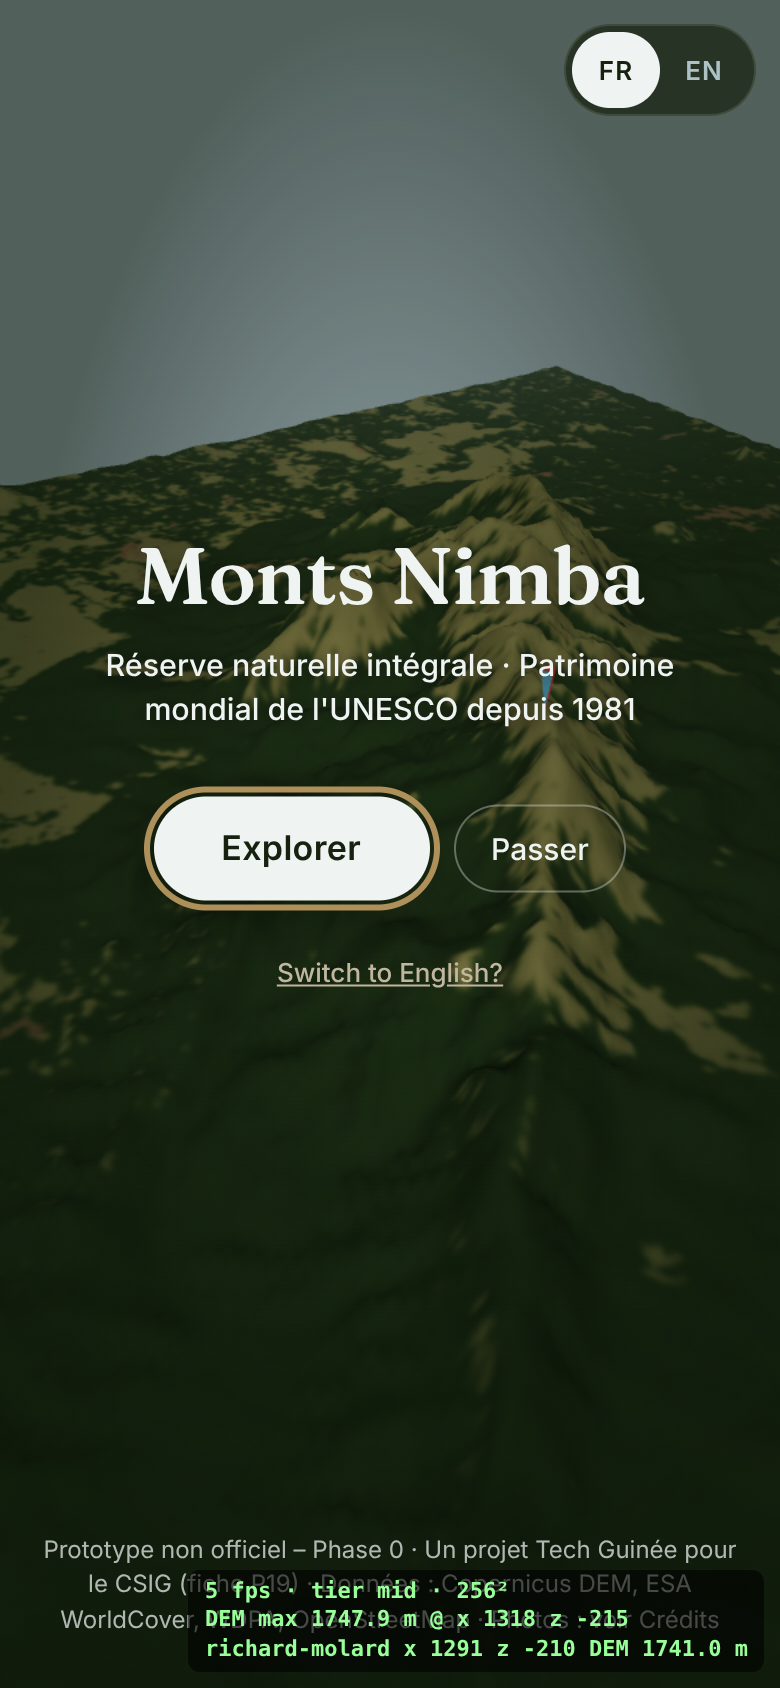
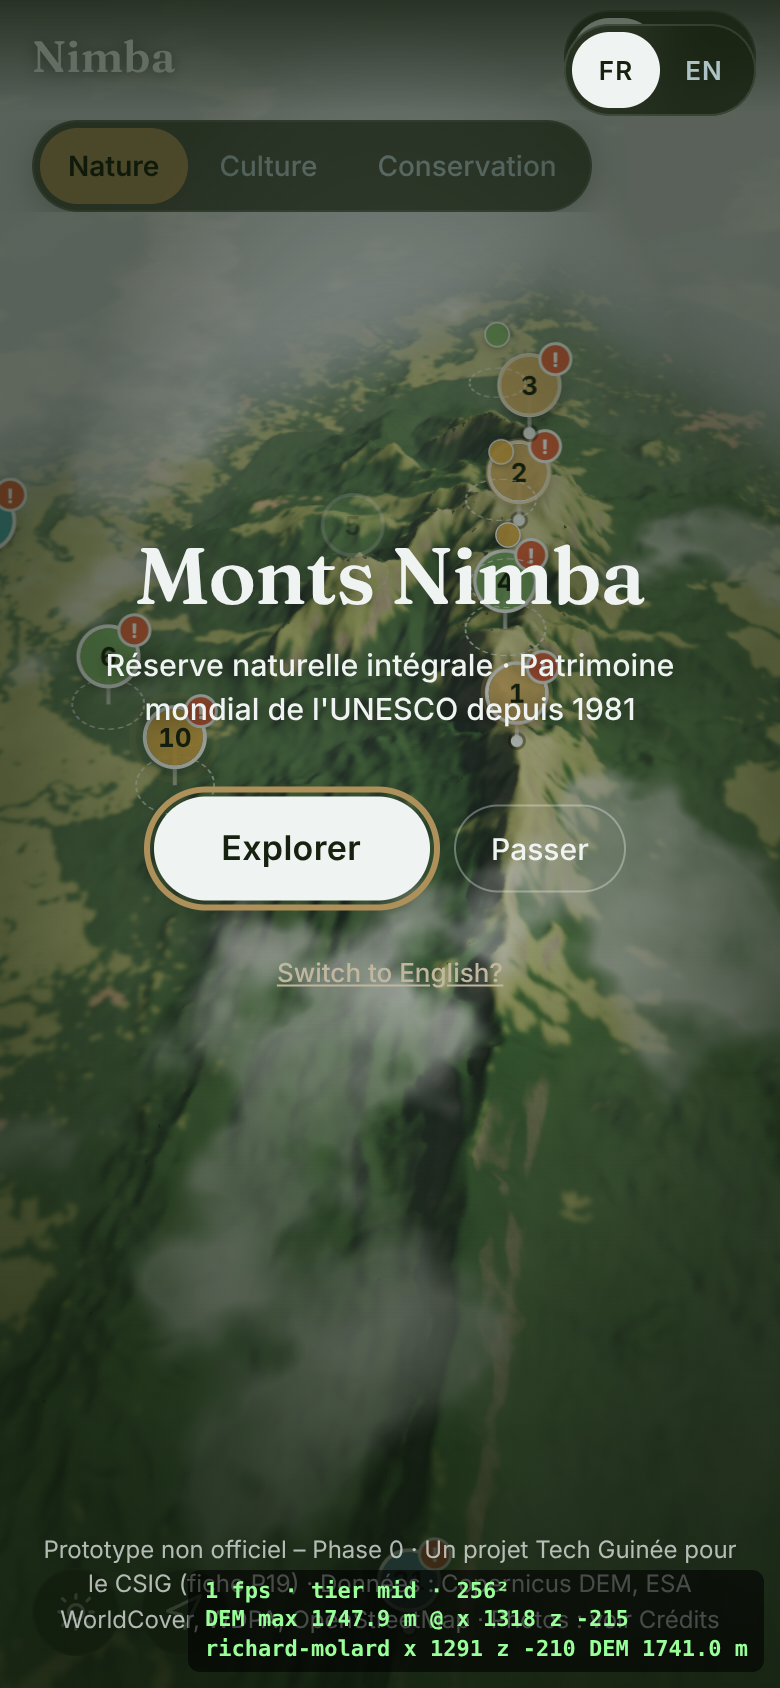
M3: hotspot pins, occlusion, declutter, mode filter and deep links
23 accessible DOM pins projected each rendered frame, faded when a ridge
hides them (heightfield segment march), decluttered by priority, number
badges on phones, dashed halos for generalised locations, Nature/Culture/
Conservation filter in ?mode=, #/h/<id> deep links with camera glide, and
a one-time 'tap a pin' hint.

Claude-Session: https://claude.ai/code/session_01JpNJH8Bnnhs2dX6KzHn537

diff --git a/src/main.ts b/src/main.ts
@@ -2,25 +2,26 @@ import '@fontsource-variable/fraunces';
 import '@fontsource-variable/inter';
 import './styles.css';
 import * as THREE from 'three';
-import { applyStatic } from './i18n';
+import { applyStatic, getLang, onLang } from './i18n';
 import { hideLoading, Progress, setLoadingText, showFatal } from './ui/loading';
 import { showTitleCard } from './ui/titlecard';
 import { BASE, flags, reducedMotion } from './flags';
 import { t } from './i18n';
 import { checkMeta, lonLatToXZ, type TerrainMeta } from './data/geo';
-import { loadContent } from './data/content';
+import { loadContent, loc, type Hotspot, type Mode } from './data/content';
 import { decodePixels, fetchBlob } from './data/loader';
 import { Heightfield } from './scene/heightfield';
 import { Landcover } from './scene/landcover';
 import { buildTerrainGeometry } from './scene/terrain';
 import { Stage } from './scene/stage';
 import { detectTier } from './scene/tier';
-import { DEFAULT_EXAG, HOME_VIEW } from './scene/config';
+import { DEFAULT_EXAG, HOME_VIEW, ORBIT } from './scene/config';
 import { clampCamera, currentPose, poseToPosition, tweenPose, type OrbitPose } from './scene/camera';
 import { ATMO_ORDER, Atmosphere, nextAtmo, type AtmoName } from './scene/atmosphere';
 import { createTerrainMaterial } from './scene/terrainMaterial';
 import { Clouds, createSky } from './scene/sky';
 import { announce, Chrome } from './ui/chrome';
+import { Pins } from './ui/pins';
 
 setLoadingText();
 applyStatic();
@@ -82,7 +83,7 @@ async function boot() {
     return {
       target: new THREE.Vector3(tx, HOME_VIEW.target.h * exag, tz),
       azimuthDeg: HOME_VIEW.azimuthDeg,
-      elevationDeg: portrait ? HOME_VIEW.elevationDeg + 8 : HOME_VIEW.elevationDeg,
+      elevationDeg: portrait ? HOME_VIEW.elevationDeg + 14 : HOME_VIEW.elevationDeg,
       distance: portrait ? HOME_VIEW.distance * 1.25 : HOME_VIEW.distance,
     };
   };
@@ -101,6 +102,50 @@ async function boot() {
     stage.addAnimator(tweenPose(currentPose(camera, controls.target), to, ms, applyPose, () => { controls.enabled = true; }));
   };
 
+  // ---- Pins, modes, selection, deep links ----
+  const modes: Mode[] = ['nature', 'culture', 'conservation'];
+  let mode: Mode = modes.includes(flags.mode as Mode) ? (flags.mode as Mode) : 'nature';
+  let selected: string | null = null;
+  const pins = new Pins(content, hf, exag, (id) => selectHotspot(id, true), { debug: flags.debug, pulse: !reducedMotion && tier.tier !== 'low' });
+  stage.onAfterRender(() => pins.update(camera, canvas.clientWidth, canvas.clientHeight, camera.position.distanceTo(controls.target)));
+  onLang(() => { pins.relabel(); stage.invalidate(); });
+
+  const hotspotPose = (h: Hotspot): OrbitPose => ({
+    target: pins.worldOf(h.id)!,
+    azimuthDeg: h.camera.azimuth_deg,
+    elevationDeg: THREE.MathUtils.clamp(h.camera.elevation_deg, 15, 80),
+    distance: Math.max(h.camera.distance_m, ORBIT.minDistance),
+  });
+
+  function selectHotspot(id: string | null, fromUser: boolean) {
+    const h = id ? content.hotspots.find((x) => x.id === id) : undefined;
+    selected = h ? h.id : null;
+    pins.select(selected);
+    const hash = selected ? `#/h/${selected}` : '';
+    if (location.hash !== hash) history.replaceState(null, '', `${location.pathname}${location.search}${hash}`);
+    if (h) {
+      if (!h.modes.includes(mode)) setMode(h.modes[0], false);
+      flyTo(hotspotPose(h), fromUser ? 1200 : 0);
+      announce(t('status.opened', { title: loc(h, 'title', getLang()) }));
+      dismissHint();
+    }
+    stage.invalidate();
+  }
+
+  function setMode(m: Mode, fromUser = true) {
+    mode = m;
+    chrome.setMode(m);
+    pins.setMode(m);
+    const q = new URLSearchParams(location.search);
+    if (m === 'nature') q.delete('mode'); else q.set('mode', m);
+    const qs = q.toString();
+    history.replaceState(null, '', `${location.pathname}${qs ? `?${qs}` : ''}${location.hash}`);
+    // Keep the selection only if its hotspot belongs to the new mode.
+    if (fromUser && selected && !pins.isInMode(selected)) selectHotspot(null, true);
+    if (fromUser) announce(t('status.mode', { mode: t(`mode.${m}`) }));
+    stage.invalidate();
+  }
+
   const chrome = new Chrome({
     onAtmo: () => {
       const next = nextAtmo(atmo.name);
@@ -109,25 +154,45 @@ async function boot() {
       chrome.setAtmo(next);
       announce(t('status.atmo', { atmo: t(`atmo.${next}`) }));
     },
-    onReset: () => flyTo(homePose()),
-    onMode: (m) => chrome.setMode(m),
+    onReset: () => { selectHotspot(null, true); flyTo(homePose()); },
+    onMode: (m) => setMode(m),
   });
   chrome.setAtmo(initialAtmo);
-  chrome.setMode('nature');
+  setMode(mode, false);
+
+  const routeFromHash = () => {
+    const m = /^#\/h\/([a-z0-9-]+)$/.exec(location.hash);
+    if (m) selectHotspot(m[1], true);
+  };
+  window.addEventListener('hashchange', routeFromHash);
+  window.addEventListener('keydown', (e) => {
+    if (e.key === 'Escape' && selected && !document.querySelector('.title-card')) selectHotspot(null, true);
+  });
+
+  // One-time "Tap a pin" hint (DESIGN.md §5).
+  let hintEl: HTMLDivElement | null = null;
+  function dismissHint() {
+    if (!hintEl) return;
+    const el = hintEl;
+    hintEl = null;
+    el.classList.add('gone');
+    setTimeout(() => el.remove(), 500);
+    try { localStorage.setItem('nimba.hint', '1'); } catch { /* ignore */ }
+  }
+  function showHint() {
+    try { if (localStorage.getItem('nimba.hint')) return; } catch { /* ignore */ }
+    hintEl = document.createElement('div');
+    hintEl.className = 'hint';
+    hintEl.textContent = t('pins.hint');
+    document.body.append(hintEl);
+    setTimeout(dismissHint, 6000);
+  }
 
   if (flags.debug) {
-    // M1 acceptance: a marker at richard-molard must sit on the highest DEM sample of the tile.
+    // M1 acceptance readout: richard-molard must sit on the highest DEM sample of the tile.
     const rm = content.hotspots.find((h) => h.id === 'richard-molard');
     const maxRow = Math.floor(hf.maxIndex / hf.size), maxCol = hf.maxIndex % hf.size;
     const [mx, mz] = hf.samplePos(maxCol, maxRow);
-    const mark = (x: number, z: number, color: string) => {
-      const m = new THREE.Mesh(new THREE.ConeGeometry(70, 500, 12), new THREE.MeshBasicMaterial({ color, fog: false }));
-      m.rotation.x = Math.PI;
-      m.position.set(x, hf.heightAt(x, z) * exag + 250, z);
-      scene.add(m);
-    };
-    mark(mx, mz, '#ff2a2a');
-    if (rm) { const [x, z] = lonLatToXZ(rm.lon, rm.lat); mark(x, z, '#2aa8ff'); }
     const fpsEl = document.createElement('div');
     fpsEl.className = 'fps';
     document.body.append(fpsEl);
@@ -145,11 +210,12 @@ async function boot() {
   hideLoading();
   document.body.dataset.ready = '1';
 
+  if (location.hash) routeFromHash();
   if (!flags.skipIntro) {
     controls.autoRotate = true;
     controls.autoRotateSpeed = 0.35;
-    const stopSpin = () => { controls.autoRotate = false; };
-    showTitleCard({ onExplore: stopSpin, onSkip: stopSpin });
+    const done = () => { controls.autoRotate = false; showHint(); };
+    showTitleCard({ onExplore: done, onSkip: done });
   }
 }
 

diff --git a/src/ui/pins.ts b/src/ui/pins.ts
@@ -1,0 +1,163 @@
+// Hotspot pins as real DOM buttons positioned from project() each rendered frame (CLAUDE.md §6.6, DESIGN.md §6).
+// Crisp text, keyboard/screen-reader accessible, no sprites. Pins behind a ridge fade and stop taking clicks.
+import * as THREE from 'three';
+import { lonLatToXZ } from '../data/geo';
+import { loc, type Content, type Hotspot, type Mode } from '../data/content';
+import { getLang, t } from '../i18n';
+import { categoryColor, glyphs } from './icons';
+import type { Heightfield } from '../scene/heightfield';
+
+interface PinEl {
+  h: Hotspot;
+  root: HTMLDivElement;
+  btn: HTMLButtonElement;
+  label: HTMLSpanElement;
+  halo: HTMLDivElement | null;
+  world: THREE.Vector3;
+  visible: boolean; // passes the mode filter
+}
+
+const HALO_RADIUS_M = 600; // generalised / area hotspots (DESIGN.md §6)
+
+export class Pins {
+  private pins: PinEl[] = [];
+  private container = document.getElementById('pins')!;
+  private selected: string | null = null;
+  private v = new THREE.Vector3();
+  private right = new THREE.Vector3();
+  private mode: Mode = 'nature';
+
+  constructor(
+    content: Content,
+    private hf: Heightfield,
+    private exag: number,
+    private onSelect: (id: string) => void,
+    opts: { debug: boolean; pulse: boolean },
+  ) {
+    if (!opts.pulse) this.container.classList.add('no-pulse');
+    for (const h of content.hotspots) {
+      const [x, z] = lonLatToXZ(h.lon, h.lat);
+      // Anchor on the rendered surface (DEM), not on the published elevation, so pins sit on the ground.
+      const world = new THREE.Vector3(x, hf.heightAt(x, z) * exag, z);
+      const root = document.createElement('div');
+      root.className = 'pin';
+      root.dataset.id = h.id;
+      root.style.setProperty('--cat', categoryColor[h.category]);
+      root.style.setProperty('--delay', `${(h.order * 0.17) % 2.4}s`);
+      const generalised = h.location_precision === 'area' || h.location_precision === 'symbolic';
+      let halo: HTMLDivElement | null = null;
+      if (generalised) {
+        halo = document.createElement('div');
+        halo.className = 'halo';
+        root.append(halo);
+      } else {
+        const ground = document.createElement('span');
+        ground.className = 'ground';
+        root.append(ground);
+      }
+      const stem = document.createElement('span');
+      stem.className = 'stem';
+      const btn = document.createElement('button');
+      btn.type = 'button';
+      btn.innerHTML = `<span class="head">${opts.pulse ? '<span class="pulse"></span>' : ''}${glyphs[h.category]}<span class="num">${h.order}</span></span>`;
+      const label = document.createElement('span');
+      label.className = 'label';
+      label.setAttribute('aria-hidden', 'true');
+      btn.append(label);
+      if (opts.debug && h.uncertain.length) {
+        const vb = document.createElement('span');
+        vb.className = 'verify-badge';
+        vb.textContent = '!';
+        vb.setAttribute('aria-hidden', 'true');
+        btn.title = `${t('debug.verify')} :\n${h.uncertain.join('\n')}`;
+        btn.append(vb);
+      }
+      btn.addEventListener('click', () => {
+        if ('vibrate' in navigator && matchMedia('(pointer: coarse)').matches) navigator.vibrate?.(8);
+        this.onSelect(h.id);
+      });
+      root.append(stem, btn);
+      this.container.append(root);
+      this.pins.push({ h, root, btn, label, halo, world, visible: true });
+    }
+    this.relabel();
+  }
+
+  /** Update texts after a language switch. */
+  relabel() {
+    const lang = getLang();
+    for (const p of this.pins) {
+      const title = loc(p.h, 'title', lang);
+      p.label.textContent = title;
+      const precision = p.h.location_precision === 'exact' ? '' : ` – ${t(`precision.${p.h.location_precision}`)}`;
+      p.btn.setAttribute('aria-label', `${p.h.order}. ${t('pins.open', { title })}${precision}`);
+    }
+  }
+
+  setMode(m: Mode) {
+    this.mode = m;
+    for (const p of this.pins) {
+      p.visible = p.h.modes.includes(m) || p.h.id === this.selected;
+      p.root.hidden = !p.visible;
+    }
+  }
+
+  isInMode(id: string) {
+    const p = this.pins.find((q) => q.h.id === id);
+    return !!p && p.h.modes.includes(this.mode);
+  }
+
+  select(id: string | null) {
+    this.selected = id;
+    for (const p of this.pins) p.root.classList.toggle('selected', p.h.id === id);
+    this.container.classList.toggle('has-selection', id !== null);
+    this.setMode(this.mode);
+  }
+
+  worldOf(id: string): THREE.Vector3 | null {
+    return this.pins.find((p) => p.h.id === id)?.world.clone() ?? null;
+  }
+
+  /** Called after each rendered frame. */
+  update(camera: THREE.PerspectiveCamera, viewW: number, viewH: number, cameraDistance: number) {
+    const narrow = viewW < 600;
+    const badge = narrow && cameraDistance > 9000;
+    const minGap = narrow ? 34 : 40;
+    this.right.setFromMatrixColumn(camera.matrixWorld, 0);
+    const placed: { x: number; y: number }[] = [];
+    // Selected first, then by order (1 = most important) for decluttering priority.
+    const sorted = [...this.pins].sort((a, b) => (a.h.id === this.selected ? -1 : b.h.id === this.selected ? 1 : a.h.order - b.h.order));
+    for (const p of sorted) {
+      if (!p.visible) continue;
+      this.v.copy(p.world).project(camera);
+      const behind = this.v.z > 1 || this.v.z < -1;
+      const x = (this.v.x * 0.5 + 0.5) * viewW;
+      const y = (-this.v.y * 0.5 + 0.5) * viewH;
+      const off = behind || x < -40 || x > viewW + 40 || y < -60 || y > viewH + 60;
+      p.root.style.visibility = off ? 'hidden' : '';
+      if (off) continue;
+      p.root.style.transform = `translate3d(${x.toFixed(1)}px, ${y.toFixed(1)}px, 0)`;
+
+      const occluded = this.hf.occluded(camera.position, p.world, this.exag);
+      p.root.classList.toggle('occluded', occluded);
+      p.root.classList.toggle('badge', badge);
+
+      // Head sits 24 px above the anchor; declutter on head positions.
+      const hy = y - 24;
+      let collide = false;
+      if (!occluded) for (const q of placed) if (Math.abs(q.x - x) < minGap && Math.abs(q.y - hy) < minGap) { collide = true; break; }
+      const collapsed = collide && p.h.id !== this.selected;
+      p.root.classList.toggle('collapsed', collapsed);
+      if (!collapsed && !occluded) placed.push({ x, y: hy });
+
+      if (p.halo) {
+        // Projected 600 m radius, squashed by the viewing angle.
+        this.v.copy(p.world).addScaledVector(this.right, HALO_RADIUS_M).project(camera);
+        const rx = Math.abs((this.v.x * 0.5 + 0.5) * viewW - x);
+        const toCam = camera.position.clone().sub(p.world).normalize();
+        p.halo.style.setProperty('--r', `${Math.min(140, Math.max(10, rx)).toFixed(1)}px`);
+        p.halo.style.setProperty('--squash', Math.max(0.2, toCam.y).toFixed(2));
+      }
+    }
+  }
+}

diff --git a/src/styles.css b/src/styles.css
@@ -90,7 +90,7 @@ button { font: inherit; color: inherit; }
 @media (min-width: 600px) {
   .modes { justify-content: center; top: calc(14px + var(--sat)); }
   .brand { font-size: 1.5rem; }
-  .tools { bottom: calc(40px + var(--sab)); }
+  .tools { bottom: calc(72px + var(--sab)); }
 }
 @media (min-width: 1024px) {
   .topbar { background: none; height: calc(64px + var(--sat)); padding-left: calc(96px + var(--sal)); }
@@ -160,12 +160,16 @@ button { font: inherit; color: inherit; }
 .pin.occluded { opacity: .25 !important; }
 .pin.occluded button { pointer-events: none; }
 .pin.collapsed button { pointer-events: none; }
+.pin.collapsed:focus-within .head { transform: none; }
+.pin.collapsed:focus-within .head > *, .pin.collapsed:focus-within .stem { visibility: visible; }
+#pins.no-pulse .pulse { display: none; }
 .pin.collapsed .head { transform: scale(.4); }
 .pin.collapsed .head > *, .pin.collapsed .pulse, .pin.collapsed .stem { visibility: hidden; }
 .pin.badge .head svg { display: none; }
 .pin.badge .head .num { display: block; }
-.verify-badge { position: absolute; left: 50%; top: -14px; transform: translateX(-50%); padding: 1px 5px; border-radius: 6px; background: var(--alert-500); color: #fff;
-  font: 700 9px/1.4 var(--font-ui); white-space: nowrap; pointer-events: none; }
+.verify-badge { position: absolute; right: 2px; top: 2px; width: 14px; height: 14px; border-radius: 50%; display: grid; place-items: center;
+  background: var(--alert-500); color: #fff; box-shadow: 0 0 0 1.5px var(--cloud-50); font: 800 10px/1 var(--font-ui); pointer-events: none; }
+.pin.collapsed .verify-badge, .pin.occluded .verify-badge { display: none; }
 @media (min-width: 1024px) { .pin button { --size: 32px; } }
 
 .hint { position: fixed; z-index: 12; left: 50%; bottom: calc(84px + var(--sab)); transform: translateX(-50%); padding: 10px 16px; border-radius: 999px;

diff --git a/docs/BUILD_NOTES.md b/docs/BUILD_NOTES.md
@@ -33,3 +33,14 @@ Running log of decisions, measured budgets and issues (CLAUDE.md §15).
 * Cloud drift is 6 m/s rather than the 0.6 m/s in DESIGN.md §10; at 0.6 m/s the motion is invisible from 10+ km away. It animates continuously only on the high tier. On mid/low, time advances only while frames are being rendered (render-on-demand), and nothing drifts under `prefers-reduced-motion`.
 * The low tier has no cloud planes, but the Mist preset still shows the sea of clouds through the terrain shader.
 * **Screenshots in this container use SwiftShader (CPU)**, so a 1230×1770 frame with the full shader takes seconds. `screens.mjs` now opens a fresh page per shot. Performance has to be judged on real devices (M8).
+
+## M3 – Content & pins
+* 23 pins are real `<button>`s in a `#pins` layer, in `order` (Tab order = hotspot order), moved with `translate3d` after every rendered frame. Pins anchor on the **DEM surface** at the hotspot's lon/lat, not at `elevation_m`. Otherwise Pierre Richaud (1,670 m published, 1,609 m DEM) would float 110 m (×1.8) above the ground.
+* **Occlusion:** a 64-step segment march from the camera to the pin through the CPU heightfield (no depth read-back). Occluded pins fade to 25 % and ignore clicks.
+* **Declutter:** greedy by priority (selected, then `order`). A pin whose head lands within 34 px (phone) / 40 px (desktop) of an already-placed one collapses to a small dot. Collapsed pins stay keyboard-focusable and re-expand on focus.
+* **Phones (< 600 px):** pins show their `order` number instead of the glyph while the camera is more than 9 km from its target (DESIGN.md §6 badge variant).
+* `area` / `symbolic` hotspots draw a dashed ellipse of ≈ 600 m projected radius instead of a ground dot. The species pins are therefore visibly "zones", never points.
+* **Modes:** pins filter by `modes[]` (Nature 13, Culture 6, Conservation 14 pins). The state is in `?mode=` and the default (Nature) is omitted from the URL. A selected pin stays visible across modes; switching to a mode it isn't in clears the selection.
+* **Deep links:** `#/h/<id>` selects the hotspot and glides the camera (1.2 s cubic) to its `camera` hint (distance, azimuth, elevation clamped 15–80°). The panel arrives in M4. The hash is kept in sync with `replaceState`.
+* `?debug=1`: an orange "!" dot on hotspots with `uncertain` notes; the notes show as the button's tooltip. Never shown without the flag.
+* Portrait screens use a steeper, slightly farther home view (+14°, ×1.25), so the ridge fills the frame instead of the sky.
